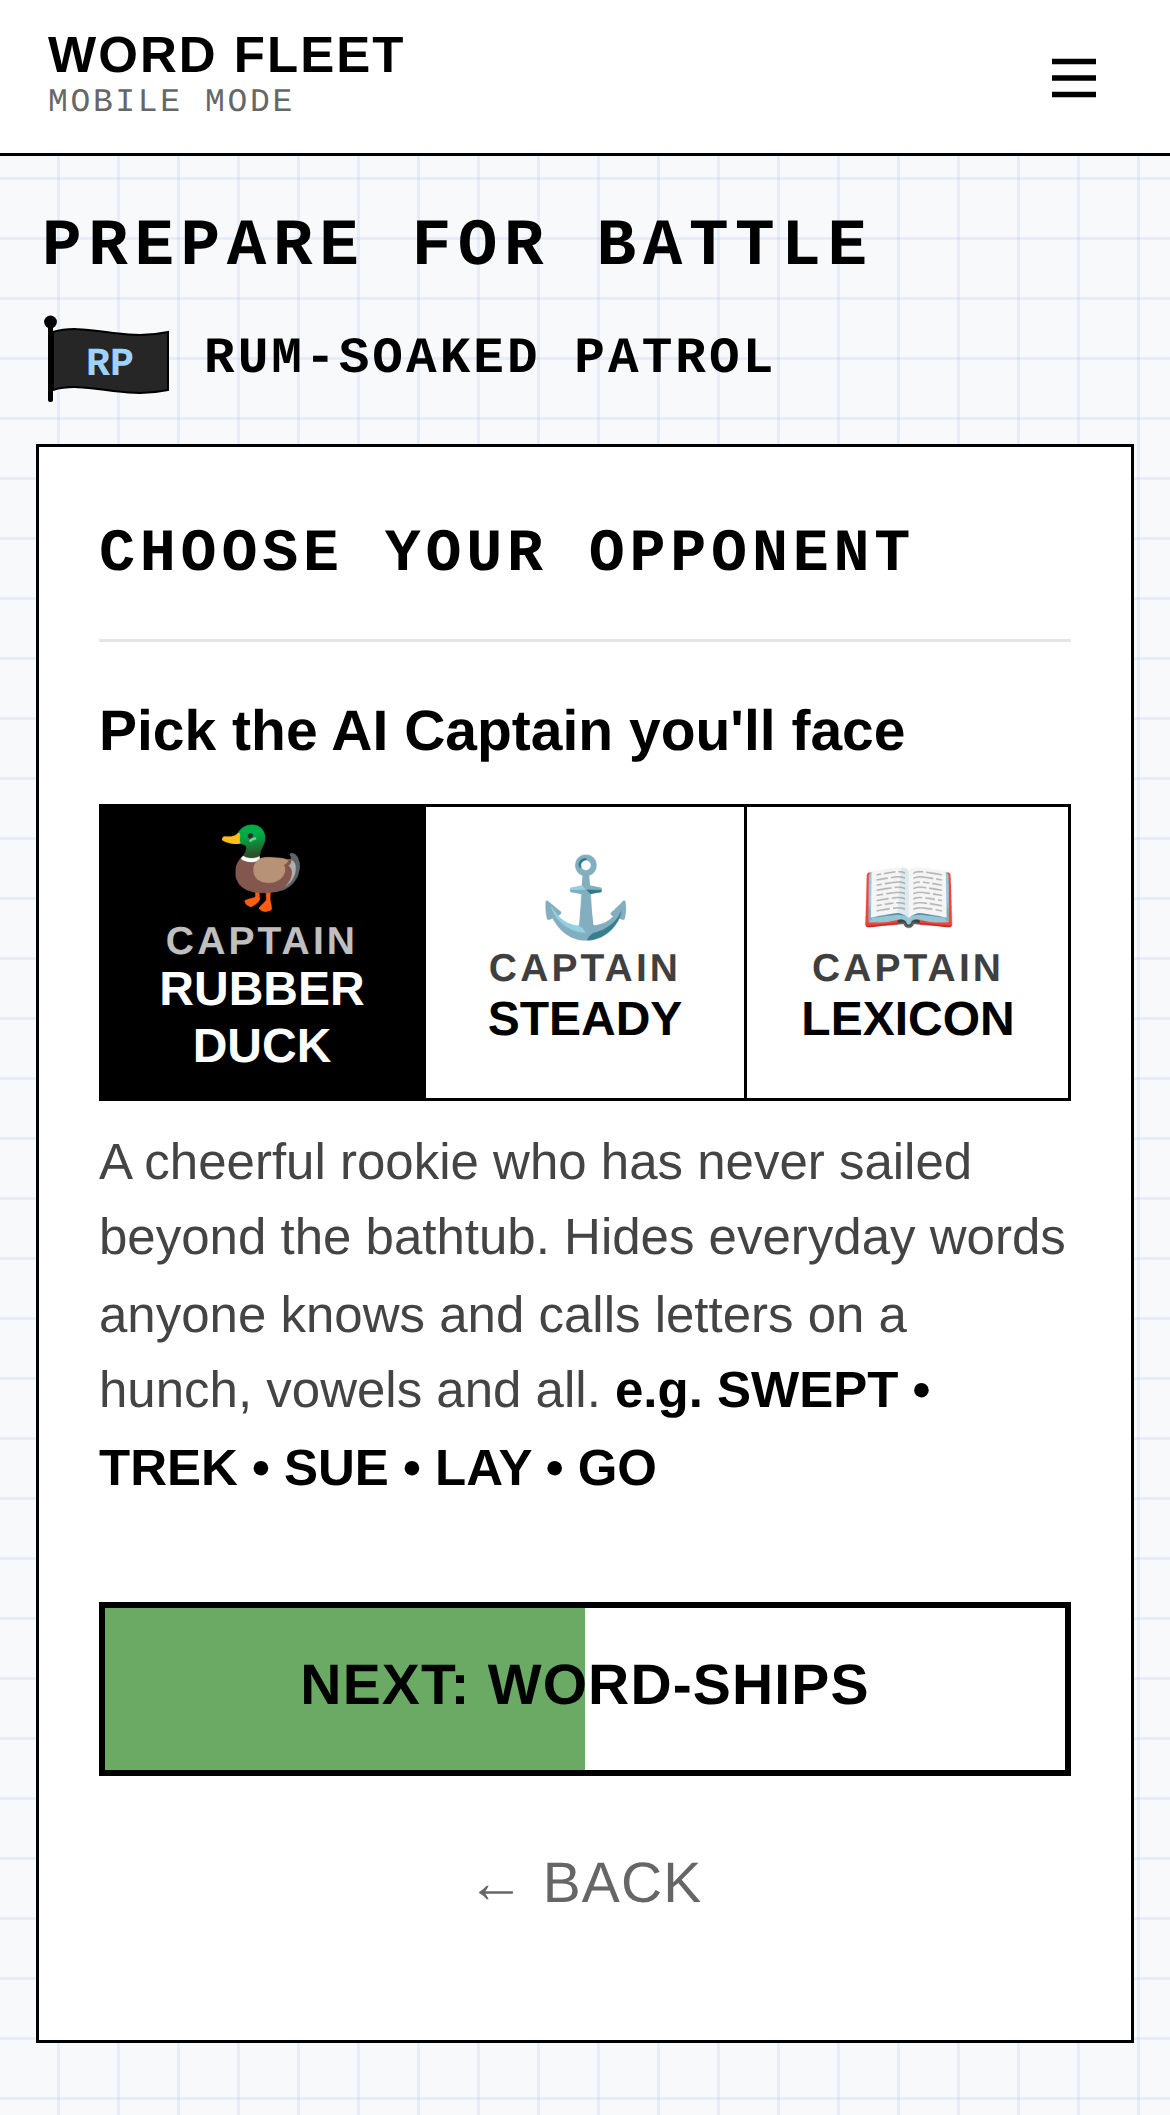
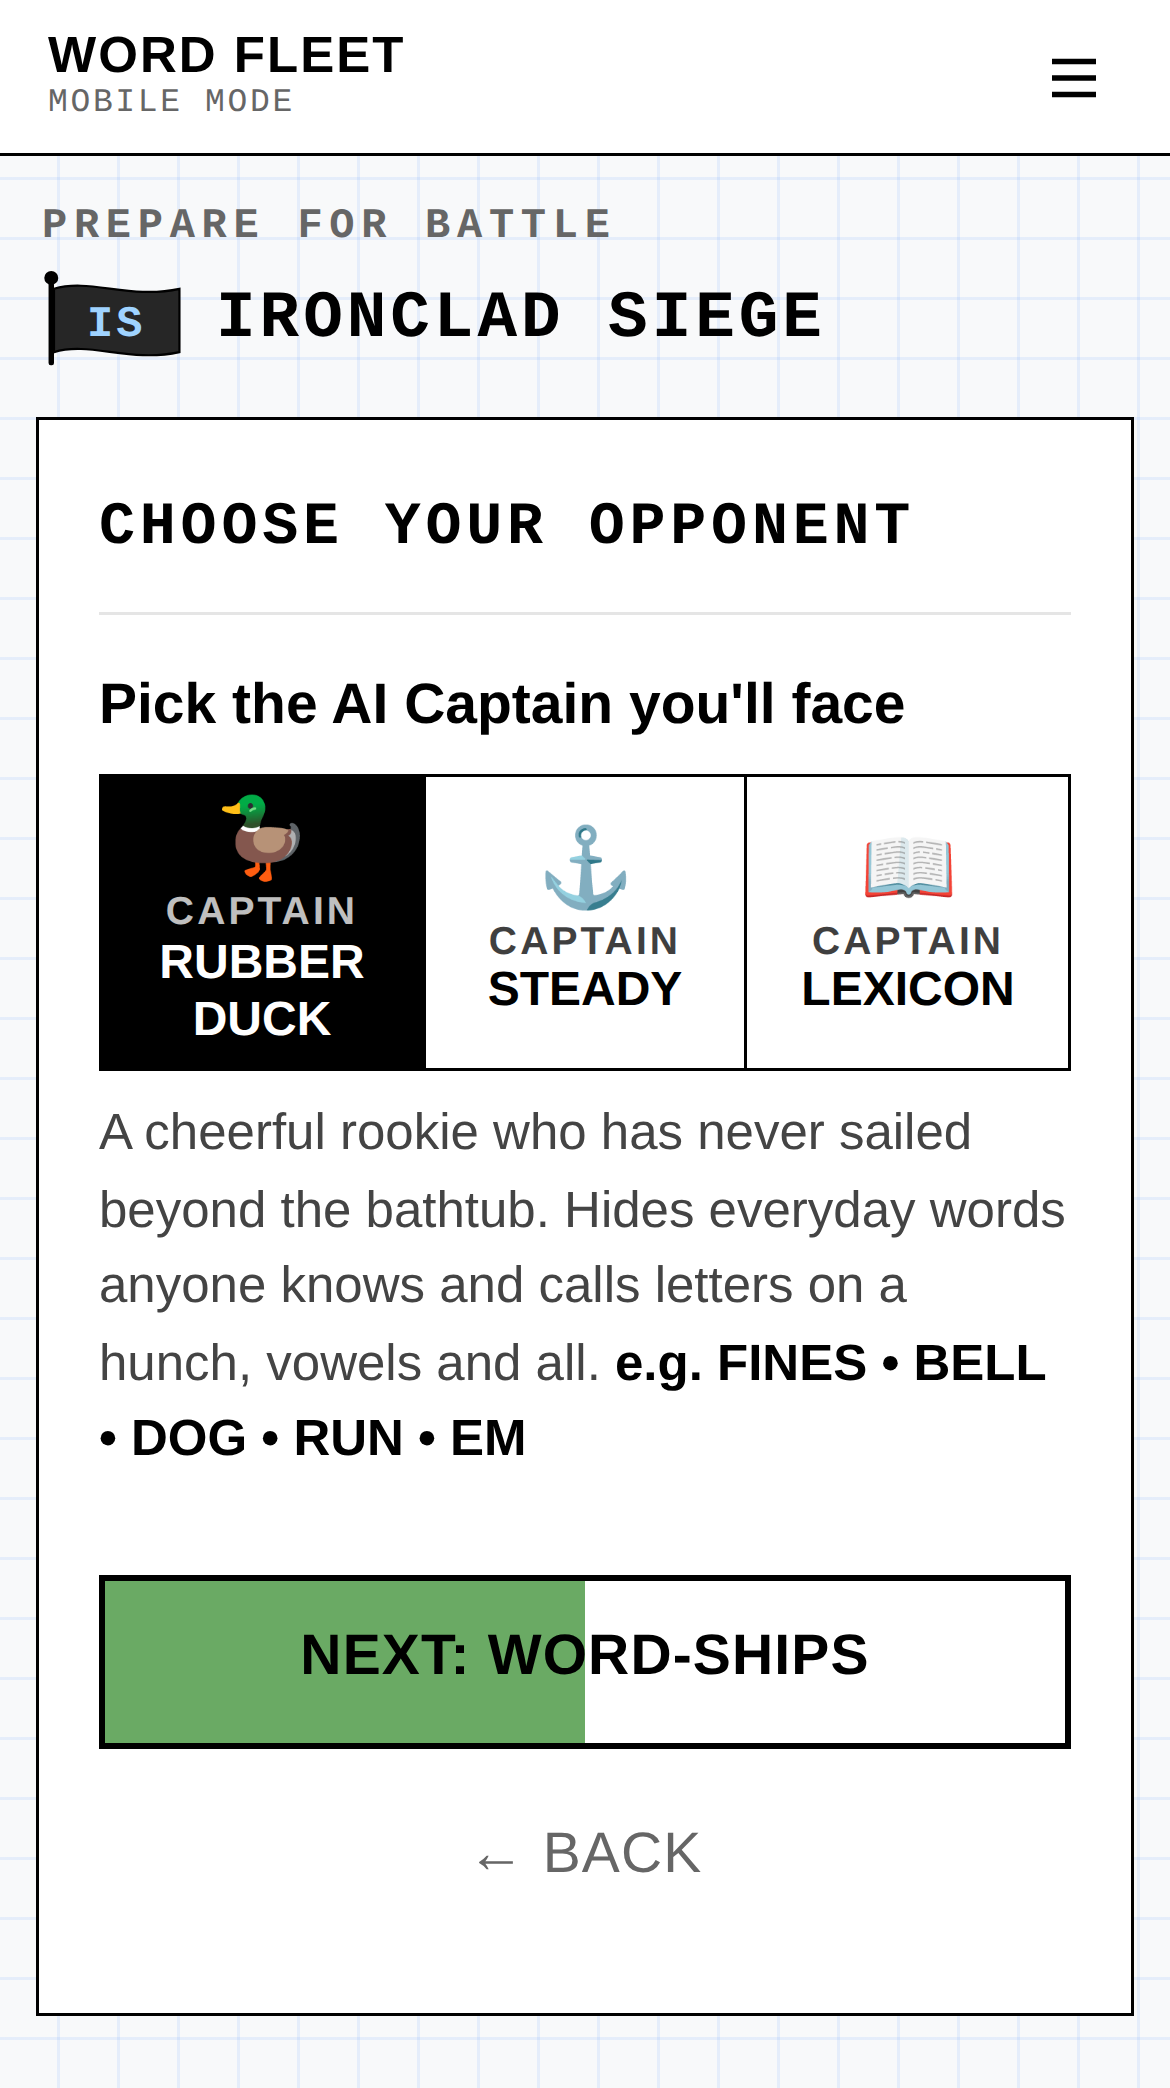
Prepare screens: same header everywhere, small PREPARE FOR BATTLE then WELCOME, CAPTAIN! or your flag and fleet name
Claude-Session: https://claude.ai/code/session_013sUGAAEC45a1EJCrQWVj9Q

diff --git a/mobile/index.html b/mobile/index.html
@@ -18,7 +18,7 @@
   <link rel="preconnect" href="https://fonts.gstatic.com" crossorigin>
   <link href="https://fonts.googleapis.com/css2?family=Courier+Prime:wght@400;700&family=Inter:wght@400;500;600;700&display=swap" rel="stylesheet">
   <!-- Bump ?v= on every release (and CACHE in sw.js) so a new page never runs old code. -->
-  <link rel="stylesheet" href="app.css?v=76">
+  <link rel="stylesheet" href="app.css?v=77">
 </head>
 <body>
 
@@ -53,8 +53,8 @@
 
   <!-- ============ 001-MOBILE-PREPARE (screen name: "001-MOBILE-PREPARE") ============ -->
   <section class="screen setup-big" id="scrSetup" data-screen="001-MOBILE-PREPARE">
-    <p class="page-welcome">Welcome, Captain!</p>
-    <h1 class="page-head">Prepare for Battle</h1>
+    <p class="page-head">Prepare for Battle</p>
+    <h1 class="page-line">Welcome, Captain!</h1>
     <div class="card">
       <div class="card-title">Set Up Your Fleet</div>
       <!-- 11: language on one compact row -->
@@ -80,8 +80,8 @@
 
   <!-- ============ 002-MOBILE-OPPONENT (screen name: "002-MOBILE-OPPONENT") ============ -->
   <section class="screen setup-big" id="scrOpponent" data-screen="002-MOBILE-OPPONENT">
-    <h1 class="page-head">Prepare for Battle</h1>
-    <div class="fleet-tag" data-fleet-tag></div>
+    <p class="page-head">Prepare for Battle</p>
+    <h1 class="page-line fleet-tag" data-fleet-tag></h1>
     <div class="card">
       <div class="card-title">Choose Your Opponent</div>
       <span class="label label--say">Pick the AI Captain you'll face</span>
@@ -99,8 +99,8 @@
 
   <!-- ============ 003-MOBILE-WORD-SHIPS (screen name: "003-MOBILE-WORD-SHIPS") ============ -->
   <section class="screen setup-big" id="scrWords" data-screen="003-MOBILE-WORD-SHIPS">
-    <h1 class="page-head">Prepare for Battle</h1>
-    <div class="fleet-tag" data-fleet-tag></div>
+    <p class="page-head">Prepare for Battle</p>
+    <h1 class="page-line fleet-tag" data-fleet-tag></h1>
     <div class="card">
       <div class="card-title">Build Your Word-Ships</div>
       <label class="switch-row switch-row--big"><span>Allow possibly offensive words</span><input type="checkbox" class="switch" id="chkOffensive" role="switch"></label>
@@ -121,7 +121,8 @@
 
   <!-- ============ 004-MOBILE-DEPLOY (screen name: "004-MOBILE-DEPLOY") ============ -->
   <section class="screen setup-big" id="scrDeploy" data-screen="004-MOBILE-DEPLOY">
-    <h1 class="page-head">Prepare for Battle</h1>
+    <p class="page-head">Prepare for Battle</p>
+    <h1 class="page-line fleet-tag" data-fleet-tag></h1>
     <div class="card card--deploy">
       <div class="card-title">Deploy Your Fleet</div>
       <!-- Same banner and frame as the in-game Defense Grid -->
@@ -227,7 +228,7 @@
 
 <div class="toast" id="toast" hidden></div>
 
-<script src="audio.js?v=76"></script>
-<script src="app.js?v=76"></script>
+<script src="audio.js?v=77"></script>
+<script src="app.js?v=77"></script>
 </body>
 </html>

diff --git a/mobile/app.css b/mobile/app.css
@@ -518,3 +518,11 @@ button.mf { font: inherit; color: var(--ink); width: 100%; padding: 3px 0 2px; c
 .setup-big .section-head { flex-wrap: wrap; }
 .setup-big .section-head .label--say { flex: 1 1 190px; }
 .setup-big .lang-row + .label--say { margin-top: 22px; }
+
+/* Header above the card on every Prepare screen: small "PREPARE FOR BATTLE" first,
+   then one big line, "Welcome, Captain!" on 001 or your flag and fleet name on 002-004. */
+.page-head { font-size: 14px; letter-spacing: 0.16em; color: var(--muted); margin: 4px 2px 2px; }
+.page-line { display: flex; align-items: center; gap: 10px; min-height: 40px; margin: 0 2px 12px;
+  font-family: var(--mono); font-size: 22px; font-weight: 700; letter-spacing: 0.06em; text-transform: uppercase; line-height: 1.2; }
+.page-line .fleet-tag-name { font-size: inherit; letter-spacing: inherit; }
+.page-line .fleet-tag-flag { width: 48px; }

diff --git a/mobile/sw.js b/mobile/sw.js
@@ -1,11 +1,11 @@
 /* Word Fleet service worker: the whole game works offline once loaded. */
-var CACHE = 'wordfleet-v76';
+var CACHE = 'wordfleet-v77';
 var SHELL = [
   './',
   'index.html',
-  'app.css?v=76',
-  'app.js?v=76',
-  'audio.js?v=76',
+  'app.css?v=77',
+  'app.js?v=77',
+  'audio.js?v=77',
   'manifest.webmanifest',
   'icons/icon-180.png',
   'icons/icon-192.png',

diff --git a/mobile/screens/README.md b/mobile/screens/README.md
@@ -8,7 +8,7 @@ referred to by name when asking for changes. Each has a reference snapshot in th
 | Name | In the code | Snapshot | What it is |
 | --- | --- | --- | --- |
 | **MOBILE-HOME** *(parked)* | `<section id="scrMobileHome" data-screen="MOBILE-HOME">`, `SCREENS.home` | `mobile-home.png` | **Parked, not shown to players.** Kept for later use. Was the first screen: WORD FLEET title, Mobile Mode tag, blurb, New Battle and Rules of Engagement buttons. The app now opens on 001-MOBILE-PREPARE. |
-| **001-MOBILE-PREPARE** | `<section id="scrSetup" data-screen="001-MOBILE-PREPARE">`, `SCREENS.setup` | `001-mobile-prepare.png` | **First screen players see.** "Welcome, Captain!" above the header. Card title "Set Up Your Fleet": Language (one row; the menu shows each language in its own name), "Roll the die or type your own fleet name" (with dice; changing language rolls a new name in that language, `dictionaries/fleet-names.json`), "Choose your color scheme" (five flags flying the fleet's initials: Plum & Peach, Crimson & Gold, Charcoal & Sky, Midnight & Silver, Ocean & Sand; dark color 1 with light color 2 text at 7:1+ contrast, no greens; random on load until picked; saved as `S.colors`). "NEXT: OPPONENT" (25%), "← WORD FLEET HOME" (leaves for the site home page). |
-| **002-MOBILE-OPPONENT** | `<section id="scrOpponent" data-screen="002-MOBILE-OPPONENT">`, `SCREENS.opponent` | `002-mobile-opponent.png` | Your flag and fleet name under the header. Card title "Choose Your Opponent", section "Pick the AI Captain you'll face": 🦆 Rubber Duck, ⚓ Steady, 📖 Lexicon, each with a character sketch and five example words (5, 4, 3, 3, 2 letters) from that captain's tier of the chosen dictionary, never offensive. "NEXT: WORD-SHIPS" (50%), Back. |
-| **003-MOBILE-WORD-SHIPS** | `<section id="scrWords" data-screen="003-MOBILE-WORD-SHIPS">`, `SCREENS.words` | `003-mobile-word-ships.png` | Your flag and fleet name under the header. Card title "Build Your Word-Ships". "Allow possibly offensive words" switch ("Applies to both fleets."). Section "Check your five word-ships" with ↻ REFRESH ALL; "Tap any word to type your own." Each word has a ↻ redraw; a typed word is checked against the dictionary when its box loses focus, and all are checked on "NEXT: DEPLOY" (75%). Back. |
-| **004-MOBILE-DEPLOY** | `<section id="scrDeploy" data-screen="004-MOBILE-DEPLOY">`, `SCREENS.deploy` | `004-mobile-deploy.png` | Step 4 of 4 of Prepare for Battle, same look as 001-003. Card title "Deploy Your Fleet", then the Defense Grid dressed like the in-game one ("DEFENSE GRID PREVIEW" banner with your fleet name under it, in your fleet's colors from 001: color 1 behind, color 2 for the text, color 1 along the top edge). Opens with the five word-ships already deployed at random, in green; they never leave the grid. Section "Keep this layout or rearrange it" with ⇄ SHUFFLE (new random layout); drag a ship to move it, double-tap its first letter to turn it. "LET THE BATTLE BEGIN!" (progress bar full), Back. |
+| **001-MOBILE-PREPARE** | `<section id="scrSetup" data-screen="001-MOBILE-PREPARE">`, `SCREENS.setup` | `001-mobile-prepare.png` | **First screen players see.** Header line "WELCOME, CAPTAIN!". Card title "Set Up Your Fleet": Language (one row; the menu shows each language in its own name), "Roll the die or type your own fleet name" (with dice; changing language rolls a new name in that language, `dictionaries/fleet-names.json`), "Choose your color scheme" (five flags flying the fleet's initials: Plum & Peach, Crimson & Gold, Charcoal & Sky, Midnight & Silver, Ocean & Sand; dark color 1 with light color 2 text at 7:1+ contrast, no greens; random on load until picked; saved as `S.colors`). "NEXT: OPPONENT" (25%), "← WORD FLEET HOME" (leaves for the site home page). |
+| **002-MOBILE-OPPONENT** | `<section id="scrOpponent" data-screen="002-MOBILE-OPPONENT">`, `SCREENS.opponent` | `002-mobile-opponent.png` | Header line: your flag and fleet name. Card title "Choose Your Opponent", section "Pick the AI Captain you'll face": 🦆 Rubber Duck, ⚓ Steady, 📖 Lexicon, each with a character sketch and five example words (5, 4, 3, 3, 2 letters) from that captain's tier of the chosen dictionary, never offensive. "NEXT: WORD-SHIPS" (50%), Back. |
+| **003-MOBILE-WORD-SHIPS** | `<section id="scrWords" data-screen="003-MOBILE-WORD-SHIPS">`, `SCREENS.words` | `003-mobile-word-ships.png` | Header line: your flag and fleet name. Card title "Build Your Word-Ships". "Allow possibly offensive words" switch ("Applies to both fleets."). Section "Check your five word-ships" with ↻ REFRESH ALL; "Tap any word to type your own." Each word has a ↻ redraw; a typed word is checked against the dictionary when its box loses focus, and all are checked on "NEXT: DEPLOY" (75%). Back. |
+| **004-MOBILE-DEPLOY** | `<section id="scrDeploy" data-screen="004-MOBILE-DEPLOY">`, `SCREENS.deploy` | `004-mobile-deploy.png` | Step 4 of 4 of Prepare for Battle, same look as 001-003; header line: your flag and fleet name. Card title "Deploy Your Fleet", then the Defense Grid dressed like the in-game one ("DEFENSE GRID PREVIEW" banner with your fleet name under it, in your fleet's colors from 001: color 1 behind, color 2 for the text, color 1 along the top edge). Opens with the five word-ships already deployed at random, in green; they never leave the grid. Section "Keep this layout or rearrange it" with ⇄ SHUFFLE (new random layout); drag a ship to move it, double-tap its first letter to turn it. "LET THE BATTLE BEGIN!" (progress bar full), Back. |
